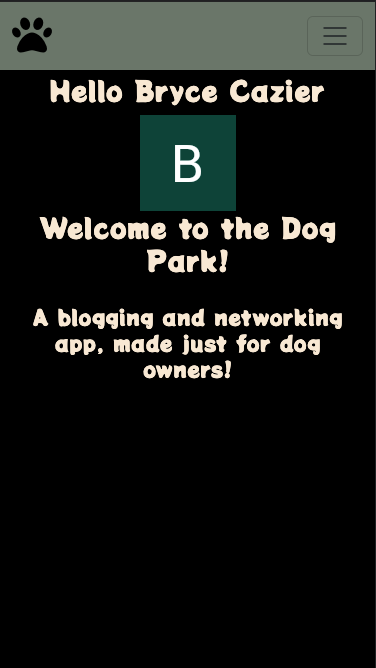
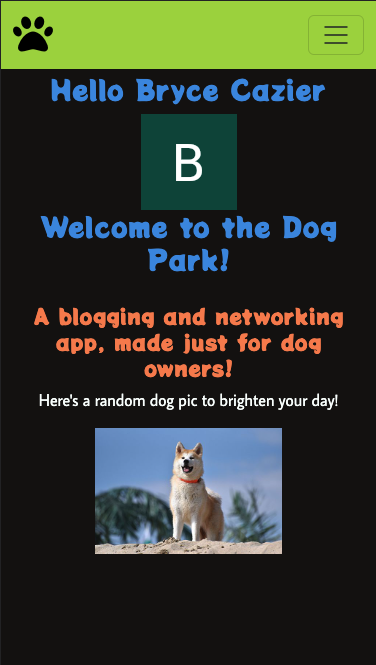
update appScreenshot

diff --git a/public/stylesheets/style.css b/public/stylesheets/style.css
@@ -95,11 +95,11 @@ h1, h2, h3, h4, h5, h6 {
 }
 
 h1 {
-  color: var(--TuftsBlue);
+  color: var(--SkyBlueCrayola);
 }
 
 h4, h5 {
-  color: var(--MangoTango);
+  color: var(--BabyPowder);
 }
 
 h4 {
